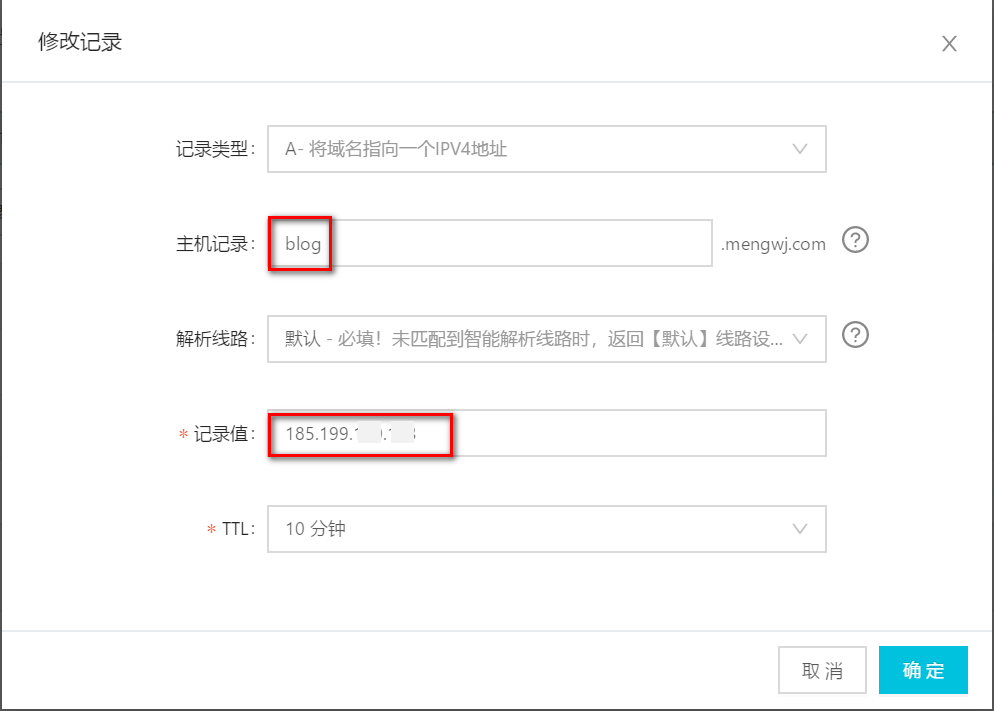
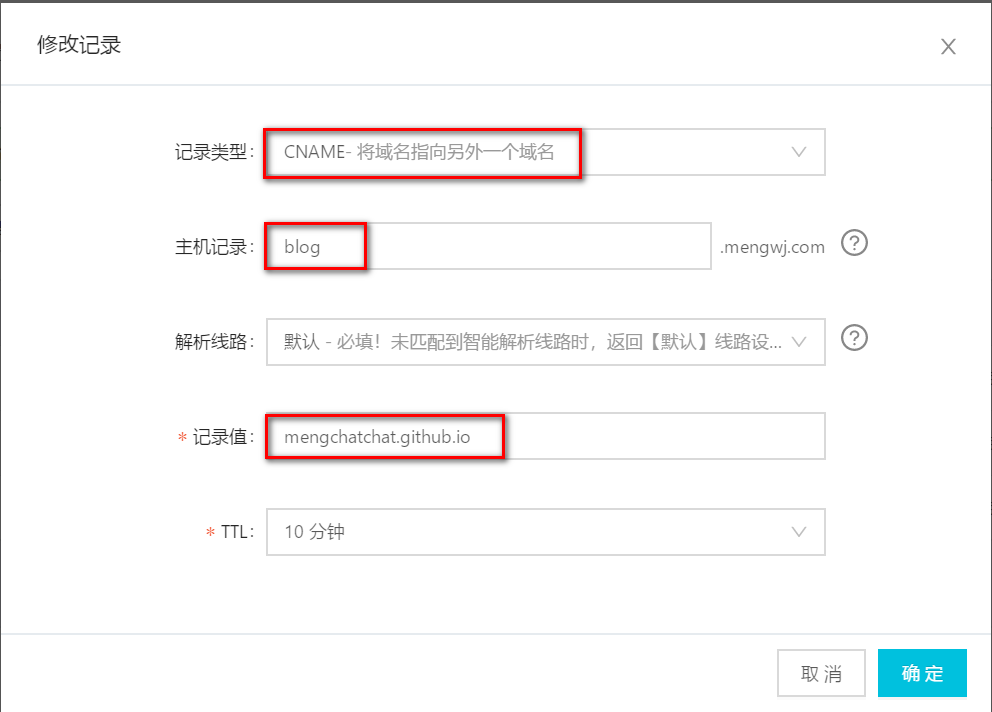
Site updated: 2019-02-18 17:02:39

diff --git a/2019/02/15/github-pages-binding-domain/index.html b/2019/02/15/github-pages-binding-domain/index.html
@@ -111,17 +111,19 @@
 <p><img src="/post_img/github_pages_binding_domain/1-3.png" alt="GitHub Pages image"></p>
 <p><img src="/post_img/github_pages_binding_domain/1-4.png" alt="GitHub Pages image"></p>
 <p><img src="/post_img/github_pages_binding_domain/1-5.png" alt="GitHub Pages image"></p>
-<h3 id="二、域名解析"><a href="#二、域名解析" class="headerlink" title="二、域名解析"></a>二、域名解析</h3><h4 id="1-获取Github-Pages域名的ip"><a href="#1-获取Github-Pages域名的ip" class="headerlink" title="1.获取Github Pages域名的ip"></a>1.获取Github Pages域名的ip</h4><p>首先获取你Github Pages域名的ip，比如你的Github pages域名为mengchatchat.github.io，执行一下命令：</p>
-<pre><code class="bash">$ ping mengchatchat.github.io
-</code></pre>
-<p>你应该可以得到一个IP，比如IP是207.97.227.245。</p>
-<p><img src="/post_img/github_pages_binding_domain/2-1.png" alt="GitHub Pages image"></p>
-<h4 id="2-增加一条A记录到该IP"><a href="#2-增加一条A记录到该IP" class="headerlink" title="2.增加一条A记录到该IP"></a>2.增加一条A记录到该IP</h4><p>最后去你的域名注册商后台，增加一条A记录到该IP就好了。</p>
+<h3 id="二、域名解析"><a href="#二、域名解析" class="headerlink" title="二、域名解析"></a>二、域名解析</h3><h4 id="1-增加一条CNAME记录"><a href="#1-增加一条CNAME记录" class="headerlink" title="1.增加一条CNAME记录"></a>1.增加一条CNAME记录</h4><p>增加一条CNAME记录到该xx.github.io。到你的域名注册商后台，正确解析是使用CNAME将你的域名解析到 xx.github.io，不要使用A记录解析到ip。我这里配置了子域blog。</p>
 <p><img src="/post_img/github_pages_binding_domain/3-1.png" alt="GitHub Pages image"></p>
 <p><img src="/post_img/github_pages_binding_domain/3-2.png" alt="GitHub Pages image"></p>
 <p><img src="/post_img/github_pages_binding_domain/3-3.png" alt="GitHub Pages image"></p>
 <p><img src="/post_img/github_pages_binding_domain/3-4.png" alt="GitHub Pages image"></p>
 <p><img src="/post_img/github_pages_binding_domain/3-5.png" alt="GitHub Pages image"></p>
+<hr>
+<p>这是别人的设置，也可以参考一下，没有配置子域，而是直接使用www的。</p>
+<p><img src="/post_img/github_pages_binding_domain/3-7.png" alt="GitHub Pages image"></p>
+<p>另外，需要注意的问题是，如果使用A记录解析到ip，则会每次发文章，都会收到github的邮件，如下：</p>
+<p><img src="/post_img/github_pages_binding_domain/3-6.png" alt="GitHub Pages image"></p>
+<p>或者如下:</p>
+<p><img src="/post_img/github_pages_binding_domain/3-8.png" alt="GitHub Pages image"></p>
 
           </div>
           <br><br>
